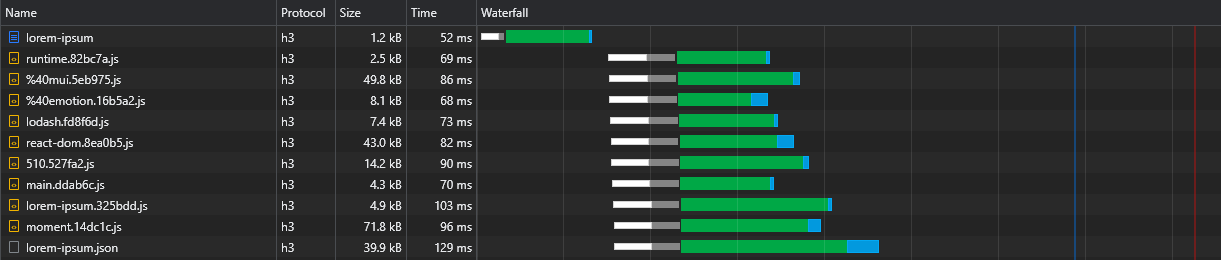
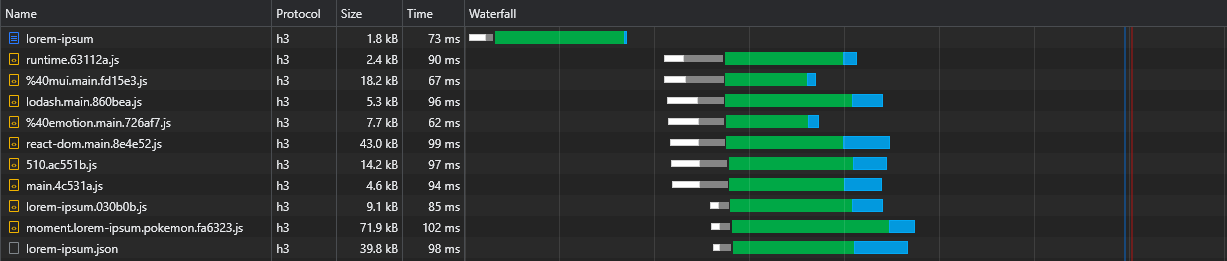
Update images

diff --git a/README.md b/README.md
@@ -665,17 +665,17 @@ https://pages.cloudflare.com
 
 To conclude this section, we will perform a benchmark of our app compared to _[Next.js](https://nextjs.org/docs/getting-started)_'s documentation site (which is **entirely SSG**).
 <br>
-We will choose a minimalistic page (Fast Refresh) and compare it to our Lorem Ipsum page.
+We will choose a minimalistic page (Accessibility) and compare it to our Lorem Ipsum page.
 <br>
 You can click on each link to perform a live benchmark.
 
-_[Fast Refresh | Next.js](https://pagespeed.web.dev/report?url=https%3A%2F%2Fnextjs.org%2Fdocs%2Fbasic-features%2Ffast-refresh)_
+_[Accessibility | Next.js](https://pagespeed.web.dev/report?url=https%3A%2F%2Fnextjs.org%2Fdocs%2Faccessibility)_
 <br>
 _[Lorem Ipsum | Client-side Rendering](https://pagespeed.web.dev/report?url=https%3A%2F%2Fclient-side-rendering.pages.dev%2Florem-ipsum)_
 
-The benchmark is performed through Google's _PageSpeed Insights_, simulating a slow 4G network.
+I performed Google's _PageSpeed Insights_ benchmark (simulating a slow 4G network) several times and picked the height score of each page:
 
-![Next.js Benchmark](images/next-js-benchmark.png)
+![Next.js Benchmark](images/nextjs-benchmark.png)
 ![Client-side Rendering Benchmark](images/client-side-rendering-benchmark.png)
 
 As it turns out, performance is **not** a default in Next.js.
